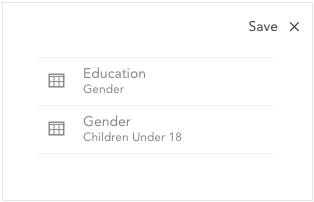
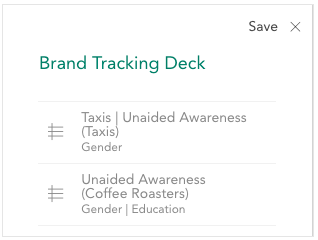
Updated documents to reflect multiple decks

diff --git a/crunch/crunch_saving-analyses.md b/crunch/crunch_saving-analyses.md
@@ -3,11 +3,17 @@ title: "Saving Analyses"
 audience: all
 ---
 
-Once you have created an analysis that you want to keep, you can save it by clicking **Save** in the upper right. This will slide out the save tray and add the current analysis to it.
+Analyses can be saved to a deck by clicking **Save** in the upper right corner in expanded view.
+
+![](images/DeckSave.png)
+
+When you click **Save**, the current deck slides out and the current analysis is saved to it.
 
 ![](images/SaveTray.png)
 
-Saved analyses will show variables used to create the analysis with an icon that indicates a graph or a table.
+The deck can be opened and closed using the + icon to the right of **Save**. When open, the icon becomes an x.
+
+Saved analyses will list the variables used to create the analysis along with an icon that indicates a graph or a table.
 
 The information saved in an analysis includes:
 
@@ -21,14 +27,34 @@ The information saved in an analysis includes:
   
   * Any changes to the [variable display](crunch_variable-display-in-expanded-view.html)
 
-Clicking an analysis in the save tray will cause it to be loaded into the analysis workspace.
+Clicking an analysis in the deck will load it into the analysis workspace.
 
-An analysis can be deleted by hovering over it in the save tray and clicking the x button.
+The order of the saved analyses can be changed by dragging them up and down in the list.
 
-Close the save tray by clicking the X above it. When the save tray is closed, you can open it by clicking the plus symbol.
+![](images/DeckDrag.png)
+
+An analysis can be deleted from the deck by hovering over it clicking the x.
+
+### Using Multiple Decks
+
+When a dataset is created, each user has a deck created for them. Click the deck name to show a dropzone that allows you to switch between decks or create a new one.
+
+![](images/DeckDropdown.png)
+
+Click **New Deck...** to create a new deck by giving it a unique name.
+
+![](images/NewDeck.png)
+
+When you click **Save**, the current analysis will be saved into the currently selected deck, allowing you to save and export multiple sets of analyses. 
+
+Click the settings icon in the lower-right corner of the deck to open deck properties, where you can rename delete a deck. Deleting a deck will delete all analyses saved in that deck. Note that you cannot delete your last deck in a dataset.
+
+![](images/DeckSettings.png)
 
 ### Exporting Analyses
 
-![](images/ExportButton.png)
+Click the export button at the bottom of the deck to export analyses saved to that deck to an Excel document.
 
-Click the export button at the bottom of the save tray to export all saved analyses to an Excel document. Each analysis will be put into a separate sheet in the Excel file, and the valid/missing counts, as well as any active filters, will be included alongside the table. Crunch graphs do not export to Excel, but it is usually easy to use Excel’s tools to define a chart with the numbers in the sheet.
+![](images/DeckExport.png)
+
+Each analysis will be put into a separate sheet in the Excel file, and the valid/missing counts, as well as any active filters, will be included alongside the table. Crunch graphs will be exported as tables, but you can use Excel’s tools to define a chart with the numbers in the sheet.
